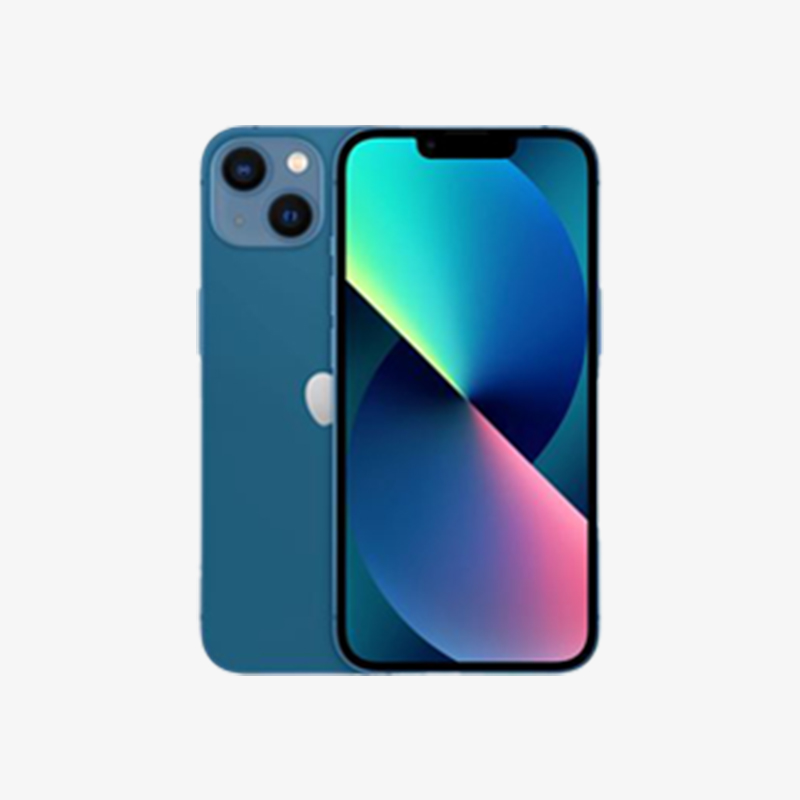
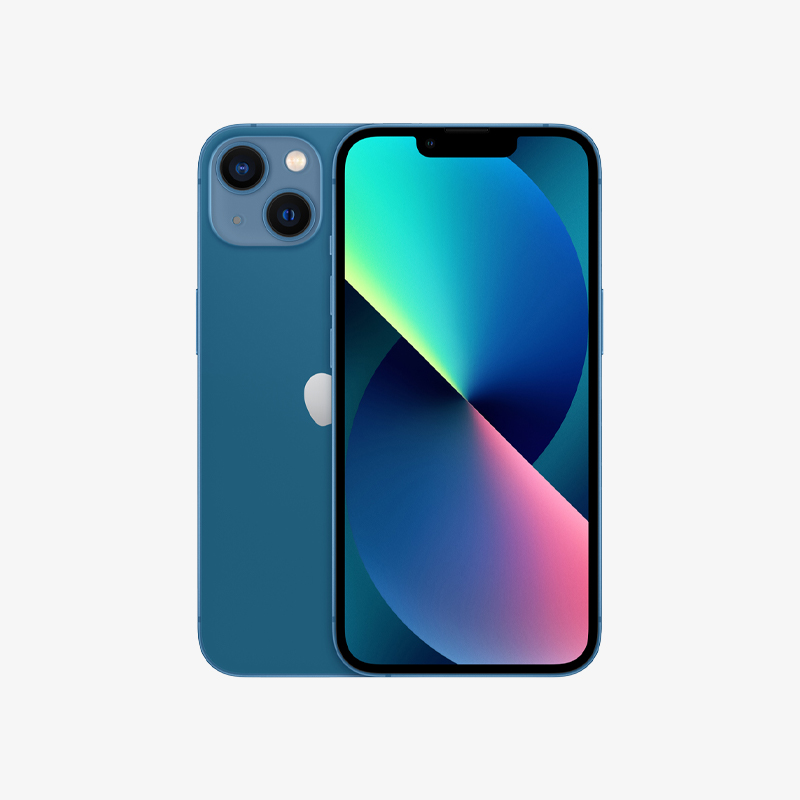
fix: change images iphone

diff --git a/src/DataBase.tsx b/src/DataBase.tsx
@@ -33,10 +33,12 @@ import imageGreen1 from "./assets/products/iphone-13/green/1.jpg";
 import imageGreen2 from "./assets/products/iphone-13/green/2.jpg";
 import imageGreen3 from "./assets/products/iphone-13/green/3.jpg";
 import imageGreen4 from "./assets/products/iphone-13/green/4.jpg";
+import imageGreen5 from "./assets/products/iphone-13/green/5.jpg";
 import imageBlue1 from "./assets/products/iphone-13/blue/1.jpg";
 import imageBlue2 from "./assets/products/iphone-13/blue/2.jpg";
 import imageBlue3 from "./assets/products/iphone-13/blue/3.jpg";
 import imageBlue4 from "./assets/products/iphone-13/blue/4.jpg";
+import imageBlue5 from "./assets/products/iphone-13/blue/5.jpg";
 
 const globalQuantity = 20;
 
@@ -414,12 +416,24 @@ export const products: Product[] = [
       {
         name: "green",
         code: "#59965C",
-        imagesColor: [imageGreen1, imageGreen2, imageGreen3, imageGreen4],
+        imagesColor: [
+          imageGreen1,
+          imageGreen2,
+          imageGreen3,
+          imageGreen4,
+          imageGreen5,
+        ],
       },
       {
         name: "blue",
         code: "#3694C7",
-        imagesColor: [imageBlue1, imageBlue2, imageBlue3, imageBlue4],
+        imagesColor: [
+          imageBlue1,
+          imageBlue2,
+          imageBlue3,
+          imageBlue4,
+          imageBlue5,
+        ],
       },
     ],
     category: "electronics",

diff --git a/src/components/layouts/ProductCardCheckout.tsx b/src/components/layouts/ProductCardCheckout.tsx
@@ -22,11 +22,11 @@ export default function ProductCardCheckout({
           className="w-[6rem] flex-none rounded-lg"
         />
         <div className="flex flex-col">
-          <span className="text-bluePrimary">{name}</span>
+          <span className="capitalize text-bluePrimary">{name}</span>
           <span className="text-grayPrimary">X{quantity}</span>
         </div>
       </div>
-      <span className="font-semibold space-x-1 text-bluePrimary">
+      <span className="space-x-1 font-semibold text-bluePrimary">
         <span>{formatNumberWithSpaces(price)}</span>
         <span>{currency}</span>
       </span>
